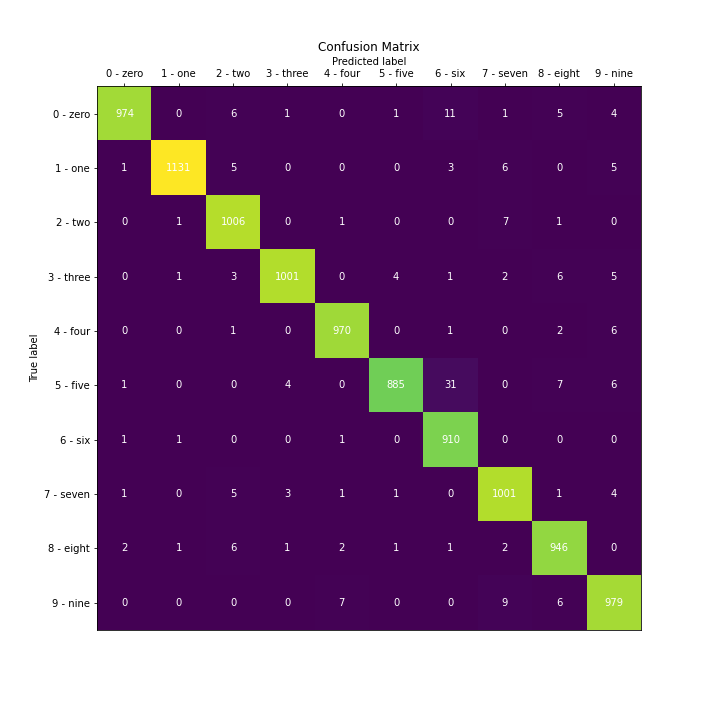
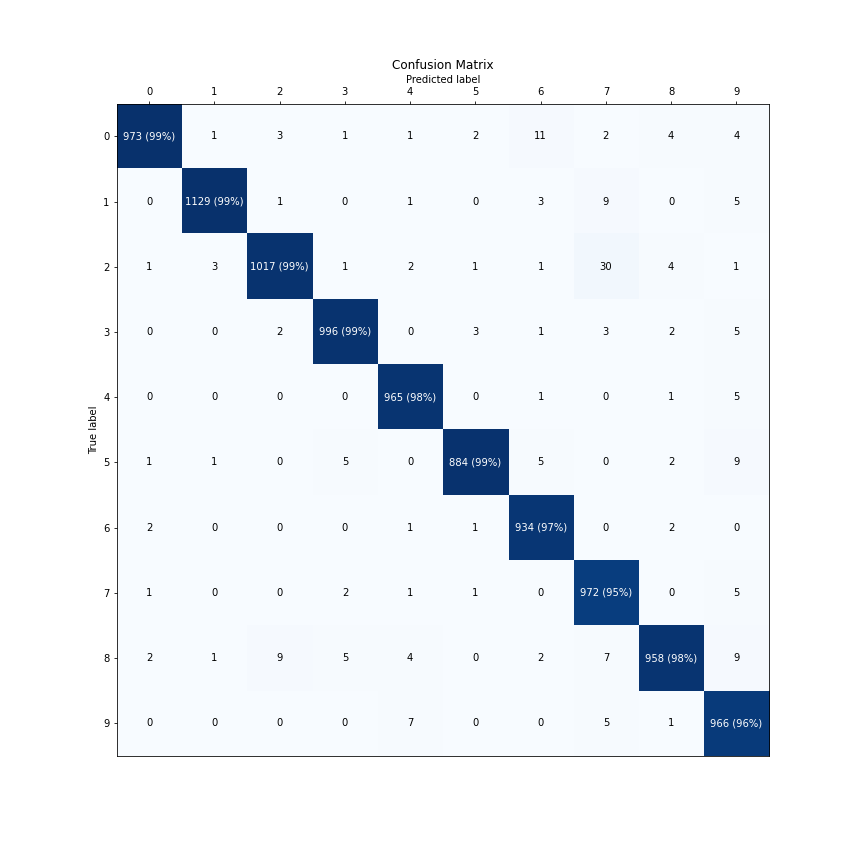
Update README

diff --git a/README.md b/README.md
@@ -16,9 +16,10 @@ It provides tools and utilities to:
 
 - Set up a training process in a few lines of code.
 - Monitor the training performance by checking several prebuilt metrics on a handy progress bar.
-- Integrate a dashboard with *TensorBoard* to visualize those metrics in an online manner with a minimal setup.
+- Integrate a *TensorBoard* dashboard to visualize those metrics in an online manner with a minimal setup.
 - Add custom functionality via Callbacks.
-- NLP: Datasets for text classification tasks. Vectors, etc.
+- NLP & Computer Vision: Datasets for text and image classification tasks.
+       Pretrained Embedding Vectors, Models, etc.
 
 ## Installation ##
 
@@ -38,30 +39,29 @@ python setup.py install
 
 ## Quickstart - MNIST ##
 
-In this case we are going to use torchero to train a Convolutional Neural Network
-for the MNIST Dataset.
-
 ### Loading the Data
 
-First, we load the dataset using ``torchvision``. Then,
-if we want we can show the image samples using ``show_imagegrid_dataset``
-
 ```python
-from torch.utils.data import DataLoader
-from torchvision.datasets import MNIST # The MNIST dataset
-from torchvision import transforms # To convert to Images to Tensors
+import torch
+from torch import nn
 
-from torchero import SupervisedTrainer
+import torchero
+from torchero.models.vision import ImageClassificationModel
 from torchero.callbacks import ProgbarLogger, ModelCheckpoint, CSVLogger
-from torchero.utils import show_imagegrid_dataset
+from torchero.utils.data import train_test_split
+from torchero.utils.vision import show_imagegrid_dataset, transforms, datasets, download_image
+from torchero.meters import ConfusionMatrix
 
 from matplotlib import pyplot as plt
+```
 
-train_ds = MNIST(root='/tmp/data/mnist', download=True, train=True, transform=transforms.ToTensor())
-test_ds = MNIST(root='/tmp/data/mnist', download=False, train=False, transform=transforms.ToTensor())
+First we load the MNIST train and test datasets and visualize it using ``show_imagegrid_dataset``.
+The Data Augmentation for this case will be a RandomInvert to flip the grayscale levels.
 
-train_dl = DataLoader(train_ds, batch_size=32)
-test_dl = DataLoader(test_ds, batch_size=32)
+```python3
+train_ds = datasets.MNIST(root='/tmp/data/mnist', download=True, train=True, transform=transforms.Compose([transforms.RandomInvert(),
+                                                                                                  transforms.ToTensor()]))
+test_ds = datasets.MNIST(root='/tmp/data/mnist', download=False, train=False, transform=transforms.ToTensor())
 
 show_imagegrid_dataset(train_ds)
 plt.show()
@@ -69,12 +69,13 @@ plt.show()
 
 ![mnist images by class](documentation/source/img/quickstart/mnist_train_data.png)
 
-### Creating the Model
+### Defining the Network
 
-Then we have to define the model. For this case we can use a Sequential one.
+Let's define a Convolutional network of two layers followed by a Linear Module
+as the classification layer.
 
 ```python
-model = nn.Sequential(nn.Conv2d(in_channels=1, out_channels=32, kernel_size=5),
+network = nn.Sequential(nn.Conv2d(in_channels=1, out_channels=32, kernel_size=5),
 					  nn.ReLU(inplace=True),
 					  nn.MaxPool2d(2),
 					  nn.Conv2d(in_channels=32, out_channels=64, kernel_size=3),
@@ -86,101 +87,63 @@ model = nn.Sequential(nn.Conv2d(in_channels=1, out_channels=32, kernel_size=5),
 					  nn.Linear(500, 10))
 ```
 
+The ImageClassificationModel is the module responsible to train the model,
+evaluate a metric against a dataset, and predict from and input for multi-class classification tasks.
+
 ### Training the Model
 
-After the network and both train and test DataLoader's are defined.
-We can run the training using ``SDG`` optimizer, cross entropy Loss,
-categorical accuracy, a progress bar, a ModelCheckpoint to
-save the model when improves on accuracy, a CSVLogger to
-dump the metrics on a CSV file. We can call ``trainer.cuda()`` if we
-want to do training on GPU insted of CPU.
+To train the model we need to compile it first with a:
+
+* an optimizer: 'adam'
+* a loss which will be defaulted to ``cross_entropy``
+* a list of metrics which will be defaulted to ``categorical_accuracy``, ``balanced_accuracy``)
+* a list of callbacks:
+    * ProgbarLogger to show training progress bar
+    * ModelCheckpoint to make checkpoints if the model improves
+    * CSVLogger to dump the metrics to a csv file after each epoch
 
 ```python
-trainer = SupervisedTrainer(model=model,
-						  optimizer='sgd',
-						  criterion='cross_entropy',
-						  acc_meters=['categorical_accuracy_percentage'],
-						  callbacks=[ProgbarLogger(notebook=True),
-									 ModelCheckpoint('saved_model', mode='max', monitor='val_acc'),
-									 CSVLogger('training_results.xml')])
+model = ImageClassificationModel(model=network, 
+                                 transform=transforms.Compose([transforms.Grayscale(),
+                                                               transforms.Resize((28,28)),
+                                                               transforms.ToTensor()]),
+                                 classes=[str(i) for i in range(10)])
+model.compile(optimizer='adam',
+              callbacks=[ProgbarLogger(notebook=True),
+                         ModelCheckpoint('saved_model', mode='max', monitor='val_acc'),
+                         CSVLogger('training_results.xml')])
 
 if torch.cuda.is_available():
-	trainer.cuda()
+    model.cuda()
 
-trainer.train()
-trainer.train(dataloader=train_dl, valid_dataloader=test_dl, epochs=5)
+history = model.fit(train_ds,
+                    test_ds,
+                    batch_size=1024,
+                    epochs=5)
 ```
 
 ![progress bar training](documentation/source/img/quickstart/training_status.gif)
 
-### Showing the training results
+### Displaying the training results
 
 To see the training metrics
 
 ```python
-fig, axs = plt.subplots(figsize=(14,3), ncols=2, nrows=1)
-trainer.history.plot()
+history.plot(figsize=(20, 20), smooth=0.2)
 plt.show()
 ```
 
-And if we want to see for example the confusion matrix on the test set.
+The ``.evaluate`` returns the metrics for a new dataset.
 
 ```python
-results = trainer.evaluate(test_dl, ['categorical_accuracy_percentage', 'confusion_matrix'])
-plt.figure(figsize=(10, 10))
-results['confusion_matrix'].plot(classes=train_ds.classes)
+results = model.evaluate(test_ds, metrics=['categorical_accuracy', 'balanced_accuracy', ConfusionMatrix()])
+for metric in ['acc', 'balanced_acc']:
+    print("{}: {:.3f}%".format(metric, results[metric] * 100))
+fig, ax = plt.subplots(figsize=(12,12))
+results['confusion_matrix'].plot(fig=fig, ax=ax, classes=model.classes)
 ```
 ![confusion matrix](documentation/source/img/quickstart/confusion_matrix.png)
 
 ## Documentation ##
 
 Additional documentation can be founded [here](https://readthedocs.org/projects/torchero/badge/?version=latest)
-
-## Extensive List of Classes ##
-
-### Trainers ###
-
-* `BatchTrainer`: Abstract class for all trainers that works with batched inputs
-* `SupervisedTrainer`: Training for supervised tasks
-* `AutoencoderTrainer`: Trainer for auto encoder tasks
-
-### Callbacks ###
-
-* `callbacks.Callback`: Base callback class for all epoch/training events
-* `callbacks.History`: Callback that record history of all training/validation metrics
-* `callbacks.Logger`: Callback that display metrics per logging step
-* `callbacks.ProgbarLogger`: Callback that displays progress bars to monitor training/validation metrics
-* `callbacks.CallbackContainer`: Callback to group multiple hooks
-* `callbacks.ModelCheckpoint`: Callback to save best model after every epoch
-* `callbacks.EarlyStopping`: Callback to stop training when monitored quanity not improves
-* `callbacks.CSVLogger`: Callback that export training/validation stadistics to a csv file
-
-### Meters ###
-
-* `meters.BaseMeter`: Interface for all meters
-* `meters.BatchMeters`: Superclass of meters that works with batchs
-* `meters.CategoricalAccuracy`: Meter for accuracy on categorical targets
-* `meters.BinaryAccuracy`: Meter for accuracy on binary targets (assuming normalized inputs)
-* `meters.BinaryAccuracyWithLogits`: Binary accuracy meter with an integrated activation function (by default logistic function)
-* `meters.ConfusionMatrix`: Meter for confusion matrix.
-* `meters.MSE`: Mean Squared Error meter
-* `meters.MSLE`: Mean Squared Log Error meter
-* `meters.RMSE`: Rooted Mean Squared Error meter
-* `meters.RMSLE`: Rooted Mean Squared Log Error meter
-* `meters.Precision`: Precision meter
-* `meters.Recall`: Precision meter
-* `meters.Specificity`: Precision meter
-* `meters.NPV`:  Negative predictive value meter
-* `meters.F1Score`: F1 Score meter
-* `meters.F2Score`: F2 Score meter
-
-### Cross validation ###
-
-* `utils.data.CrossFoldValidation`: Itererator through cross-fold-validation folds
-* `utils.data.train_test_split`: Split dataset into train and test datasets
-
-### Datasets ###
-
-* `utils.data.datasets.SubsetDataset`: Dataset that is a subset of the original dataset
-* `utils.data.datasets.ShrinkDatset`: Shrinks a dataset
-* `utils.data.datasets.UnsuperviseDataset`: Makes a dataset unsupervised
